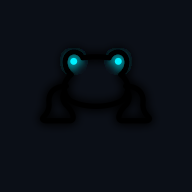
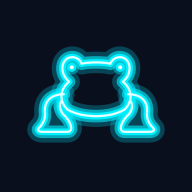
chore: update branding assets and theme color
Updated favicon and associated application theme color for improved visual consistency.

Changed region(s): [[0.125, 0.2188, 0.875, 0.75]]

diff --git a/scripts/generate-icons.ts b/scripts/generate-icons.ts
@@ -8,200 +8,92 @@ const __dirname = path.dirname(__filename);
 const rootDir = path.resolve(__dirname, '..');
 const publicDir = path.join(rootDir, 'public');
 
-const svgIcon = `
+// Master SVG designed for crisp, ultra-bright high-contrast rendering at any size (16px to 512px)
+// Uses layered cyan/white core glow lines so it's impossible to look dark or dim.
+const createSvg = (size: number, isMaskable: boolean = false) => {
+  const padding = isMaskable ? 80 : 36;
+  const contentSize = 512 - padding * 2;
+  const scale = (contentSize / 140) * 0.95;
+  const offsetX = padding + (contentSize - 160 * scale) / 2;
+  const offsetY = padding + (contentSize - 140 * scale) / 2;
+  const rx = isMaskable ? 0 : 96;
+
+  return `
 <svg width="512" height="512" viewBox="0 0 512 512" fill="none" xmlns="http://www.w3.org/2000/svg">
-  <rect width="512" height="512" rx="96" fill="#0B0F17"/>
-  <defs>
-    <filter id="pwa-glow" x="-30%" y="-30%" width="160%" height="160%">
-      <feGaussianBlur stdDeviation="6" result="coloredBlur" />
-      <feMerge>
-        <feMergeNode in="coloredBlur" />
-        <feMergeNode in="coloredBlur" />
-        <feMergeNode in="SourceGraphic" />
-      </feMerge>
-    </filter>
-    <linearGradient id="neon-cyan" x1="0%" y1="0%" x2="100%" y2="100%">
-      <stop offset="0%" stopColor="#38E1FF" />
-      <stop offset="50%" stopColor="#00F0FF" />
-      <stop offset="100%" stopColor="#00C4EE" />
-    </linearGradient>
-  </defs>
+  <rect width="512" height="512" rx="${rx}" fill="#0A0F1D"/>
 
-  <g transform="translate(48, 48) scale(2.6)" filter="url(#pwa-glow)">
-    <!-- Head & Jaw -->
-    <path
-      d="
-        M 64 34
-        C 70 32, 90 32, 96 34
-        C 100 24, 114 24, 117 35
-        C 119 43, 115 50, 110 54
-        C 120 62, 122 75, 112 85
-        C 96 95, 64 95, 48 85
-        C 38 75, 40 62, 50 54
-        C 45 50, 41 43, 43 35
-        C 46 24, 60 24, 64 34
-        Z
-      "
-      stroke="url(#neon-cyan)"
-      stroke-width="6.5"
-      stroke-linecap="round"
-      stroke-linejoin="round"
-      fill="none"
-    />
+  <!-- Frog Group Scaled & Positioned -->
+  <g transform="translate(${offsetX}, ${offsetY}) scale(${scale})">
+    
+    <!-- LAYER 1: Wide Deep Bloom -->
+    <g stroke="#00E5FF" stroke-width="24" stroke-opacity="0.25" stroke-linecap="round" stroke-linejoin="round" fill="none">
+      <path d="M 64 34 C 70 32, 90 32, 96 34 C 100 24, 114 24, 117 35 C 119 43, 115 50, 110 54 C 120 62, 122 75, 112 85 C 96 95, 64 95, 48 85 C 38 75, 40 62, 50 54 C 45 50, 41 43, 43 35 C 46 24, 60 24, 64 34 Z" />
+      <path d="M 44 68 C 32 68, 22 74, 23 88 C 24 96, 20 102, 16 106 C 14 108, 16 110, 20 110 L 48 110 C 56 110, 52 98, 43 90 C 40 86, 38 80, 42 75" />
+      <path d="M 116 68 C 128 68, 138 74, 137 88 C 136 96, 140 102, 144 106 C 146 108, 144 110, 140 110 L 112 110 C 104 110, 108 98, 117 90 C 120 86, 122 80, 118 75" />
+    </g>
 
-    <!-- Pupils -->
-    <circle cx="53" cy="38" r="4.2" fill="#00F0FF" />
-    <circle cx="107" cy="38" r="4.2" fill="#00F0FF" />
+    <!-- LAYER 2: Vibrant Mid Glow -->
+    <g stroke="#00F0FF" stroke-width="14" stroke-opacity="0.6" stroke-linecap="round" stroke-linejoin="round" fill="none">
+      <path d="M 64 34 C 70 32, 90 32, 96 34 C 100 24, 114 24, 117 35 C 119 43, 115 50, 110 54 C 120 62, 122 75, 112 85 C 96 95, 64 95, 48 85 C 38 75, 40 62, 50 54 C 45 50, 41 43, 43 35 C 46 24, 60 24, 64 34 Z" />
+      <path d="M 44 68 C 32 68, 22 74, 23 88 C 24 96, 20 102, 16 106 C 14 108, 16 110, 20 110 L 48 110 C 56 110, 52 98, 43 90 C 40 86, 38 80, 42 75" />
+      <path d="M 116 68 C 128 68, 138 74, 137 88 C 136 96, 140 102, 144 106 C 146 108, 144 110, 140 110 L 112 110 C 104 110, 108 98, 117 90 C 120 86, 122 80, 118 75" />
+    </g>
 
-    <!-- Left Leg -->
-    <path
-      d="
-        M 44 68
-        C 32 68, 22 74, 23 88
-        C 24 96, 20 102, 16 106
-        C 14 108, 16 110, 20 110
-        L 48 110
-        C 56 110, 52 98, 43 90
-        C 40 86, 38 80, 42 75
-      "
-      stroke="url(#neon-cyan)"
-      stroke-width="6.5"
-      stroke-linecap="round"
-      stroke-linejoin="round"
-      fill="none"
-    />
+    <!-- LAYER 3: Solid Bright Cyan Body Line -->
+    <g stroke="#00F0FF" stroke-width="7.5" stroke-linecap="round" stroke-linejoin="round" fill="none">
+      <path d="M 64 34 C 70 32, 90 32, 96 34 C 100 24, 114 24, 117 35 C 119 43, 115 50, 110 54 C 120 62, 122 75, 112 85 C 96 95, 64 95, 48 85 C 38 75, 40 62, 50 54 C 45 50, 41 43, 43 35 C 46 24, 60 24, 64 34 Z" />
+      <path d="M 44 68 C 32 68, 22 74, 23 88 C 24 96, 20 102, 16 106 C 14 108, 16 110, 20 110 L 48 110 C 56 110, 52 98, 43 90 C 40 86, 38 80, 42 75" />
+      <path d="M 116 68 C 128 68, 138 74, 137 88 C 136 96, 140 102, 144 106 C 146 108, 144 110, 140 110 L 112 110 C 104 110, 108 98, 117 90 C 120 86, 122 80, 118 75" />
+    </g>
 
-    <!-- Right Leg -->
-    <path
-      d="
-        M 116 68
-        C 128 68, 138 74, 137 88
-        C 136 96, 140 102, 144 106
-        C 146 108, 144 110, 140 110
-        L 112 110
-        C 104 110, 108 98, 117 90
-        C 120 86, 122 80, 118 75
-      "
-      stroke="url(#neon-cyan)"
-      stroke-width="6.5"
-      stroke-linecap="round"
-      stroke-linejoin="round"
-      fill="none"
-    />
+    <!-- LAYER 4: Bright White Core Line (Guarantees crisp visibility) -->
+    <g stroke="#E6FFFF" stroke-width="2.5" stroke-linecap="round" stroke-linejoin="round" fill="none">
+      <path d="M 64 34 C 70 32, 90 32, 96 34 C 100 24, 114 24, 117 35 C 119 43, 115 50, 110 54 C 120 62, 122 75, 112 85 C 96 95, 64 95, 48 85 C 38 75, 40 62, 50 54 C 45 50, 41 43, 43 35 C 46 24, 60 24, 64 34 Z" />
+      <path d="M 44 68 C 32 68, 22 74, 23 88 C 24 96, 20 102, 16 106 C 14 108, 16 110, 20 110 L 48 110 C 56 110, 52 98, 43 90 C 40 86, 38 80, 42 75" />
+      <path d="M 116 68 C 128 68, 138 74, 137 88 C 136 96, 140 102, 144 106 C 146 108, 144 110, 140 110 L 112 110 C 104 110, 108 98, 117 90 C 120 86, 122 80, 118 75" />
+    </g>
+
+    <!-- Eyes: Outer Glow, Cyan Base, White Pupil -->
+    <circle cx="53" cy="38" r="8" fill="#00F0FF" fill-opacity="0.4" />
+    <circle cx="107" cy="38" r="8" fill="#00F0FF" fill-opacity="0.4" />
+    <circle cx="53" cy="38" r="5" fill="#00F0FF" />
+    <circle cx="107" cy="38" r="5" fill="#00F0FF" />
+    <circle cx="53" cy="38" r="2.2" fill="#FFFFFF" />
+    <circle cx="107" cy="38" r="2.2" fill="#FFFFFF" />
   </g>
 </svg>
 `;
-
-const svgMaskableIcon = `
-<svg width="512" height="512" viewBox="0 0 512 512" fill="none" xmlns="http://www.w3.org/2000/svg">
-  <rect width="512" height="512" fill="#0B0F17"/>
-  <defs>
-    <filter id="pwa-glow-mask" x="-30%" y="-30%" width="160%" height="160%">
-      <feGaussianBlur stdDeviation="6" result="coloredBlur" />
-      <feMerge>
-        <feMergeNode in="coloredBlur" />
-        <feMergeNode in="coloredBlur" />
-        <feMergeNode in="SourceGraphic" />
-      </feMerge>
-    </filter>
-    <linearGradient id="neon-cyan-mask" x1="0%" y1="0%" x2="100%" y2="100%">
-      <stop offset="0%" stopColor="#38E1FF" />
-      <stop offset="50%" stopColor="#00F0FF" />
-      <stop offset="100%" stopColor="#00C4EE" />
-    </linearGradient>
-  </defs>
-
-  <g transform="translate(80, 80) scale(2.2)" filter="url(#pwa-glow-mask)">
-    <!-- Head & Jaw -->
-    <path
-      d="
-        M 64 34
-        C 70 32, 90 32, 96 34
-        C 100 24, 114 24, 117 35
-        C 119 43, 115 50, 110 54
-        C 120 62, 122 75, 112 85
-        C 96 95, 64 95, 48 85
-        C 38 75, 40 62, 50 54
-        C 45 50, 41 43, 43 35
-        C 46 24, 60 24, 64 34
-        Z
-      "
-      stroke="url(#neon-cyan-mask)"
-      stroke-width="6.5"
-      stroke-linecap="round"
-      stroke-linejoin="round"
-      fill="none"
-    />
-
-    <!-- Pupils -->
-    <circle cx="53" cy="38" r="4.2" fill="#00F0FF" />
-    <circle cx="107" cy="38" r="4.2" fill="#00F0FF" />
-
-    <!-- Left Leg -->
-    <path
-      d="
-        M 44 68
-        C 32 68, 22 74, 23 88
-        C 24 96, 20 102, 16 106
-        C 14 108, 16 110, 20 110
-        L 48 110
-        C 56 110, 52 98, 43 90
-        C 40 86, 38 80, 42 75
-      "
-      stroke="url(#neon-cyan-mask)"
-      stroke-width="6.5"
-      stroke-linecap="round"
-      stroke-linejoin="round"
-      fill="none"
-    />
-
-    <!-- Right Leg -->
-    <path
-      d="
-        M 116 68
-        C 128 68, 138 74, 137 88
-        C 136 96, 140 102, 144 106
-        C 146 108, 144 110, 140 110
-        L 112 110
-        C 104 110, 108 98, 117 90
-        C 120 86, 122 80, 118 75
-      "
-      stroke="url(#neon-cyan-mask)"
-      stroke-width="6.5"
-      stroke-linecap="round"
-      stroke-linejoin="round"
-      fill="none"
-    />
-  </g>
-</svg>
-`;
+};
 
 async function generate() {
-  console.log('Generating PWA icons...');
-  const svgBuffer = Buffer.from(svgIcon);
-  const maskableSvgBuffer = Buffer.from(svgMaskableIcon);
+  console.log('Generating radiant PWA icons...');
+  const stdSvg = Buffer.from(createSvg(512, false));
+  const maskableSvg = Buffer.from(createSvg(512, true));
 
-  await sharp(svgBuffer)
+  await sharp(stdSvg)
     .resize(512, 512)
     .png()
     .toFile(path.join(publicDir, 'icon-512.png'));
 
-  await sharp(svgBuffer)
+  await sharp(stdSvg)
     .resize(192, 192)
     .png()
     .toFile(path.join(publicDir, 'icon-192.png'));
 
-  await sharp(maskableSvgBuffer)
+  await sharp(maskableSvg)
     .resize(512, 512)
     .png()
     .toFile(path.join(publicDir, 'icon-512-maskable.png'));
 
-  await sharp(maskableSvgBuffer)
+  await sharp(maskableSvg)
     .resize(192, 192)
     .png()
     .toFile(path.join(publicDir, 'icon-192-maskable.png'));
 
-  console.log('Icons generated successfully in public/');
+  // Also write SVG favicon
+  fs.writeFileSync(path.join(publicDir, 'favicon.svg'), createSvg(128, false));
+
+  console.log('Radiant PWA Icons generated successfully!');
 }
 
 generate().catch(console.error);

diff --git a/index.html b/index.html
@@ -8,11 +8,11 @@
     <meta property="og:title" content="LoomFrog" />
     <meta property="og:description" content="Zero-Server Brand DNA & Tone Consistency Platform with client-side deterministic verification and Gemini semantic audits." />
     <meta property="og:type" content="website" />
-    <meta name="theme-color" content="#0B101D" />
+    <meta name="theme-color" content="#0A0F1D" />
     <meta name="twitter:card" content="summary_large_image" />
-    <link rel="icon" type="image/svg+xml" href="favicon.svg?v=3" />
-    <link rel="apple-touch-icon" href="icon-192.png?v=3" />
-    <link rel="manifest" href="manifest.webmanifest?v=3" />
+    <link rel="icon" type="image/svg+xml" href="favicon.svg?v=4" />
+    <link rel="apple-touch-icon" href="icon-192.png?v=4" />
+    <link rel="manifest" href="manifest.webmanifest?v=4" />
     <link rel="preconnect" href="https://fonts.googleapis.com">
     <link rel="preconnect" href="https://fonts.gstatic.com" crossorigin>
     <link href="https://fonts.googleapis.com/css2?family=Cinzel:wght@500;700&family=Inter:wght@300;400;500;600;700&family=JetBrains+Mono:wght@400;500&family=Lexend:wght@300;400;500;600;700;800;900&display=swap" rel="stylesheet">

diff --git a/public/sw.js b/public/sw.js
@@ -1,5 +1,5 @@
 // Service Worker for LoomFrog PWA
-const CACHE_NAME = 'loomfrog-v3';
+const CACHE_NAME = 'loomfrog-v4';
 
 self.addEventListener('install', (event) => {
   self.skipWaiting();
